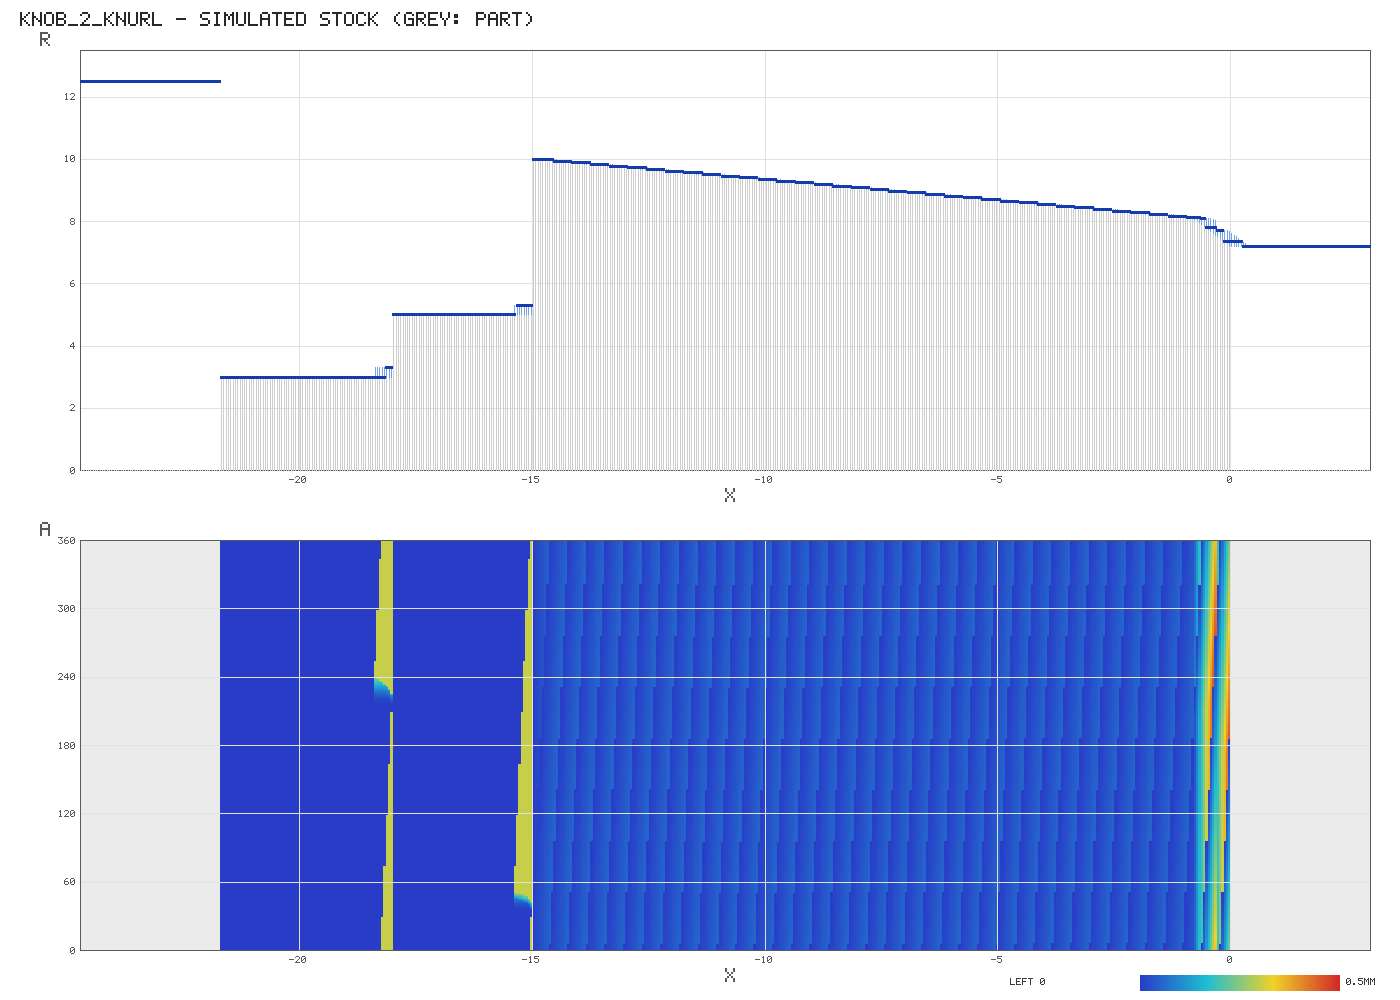
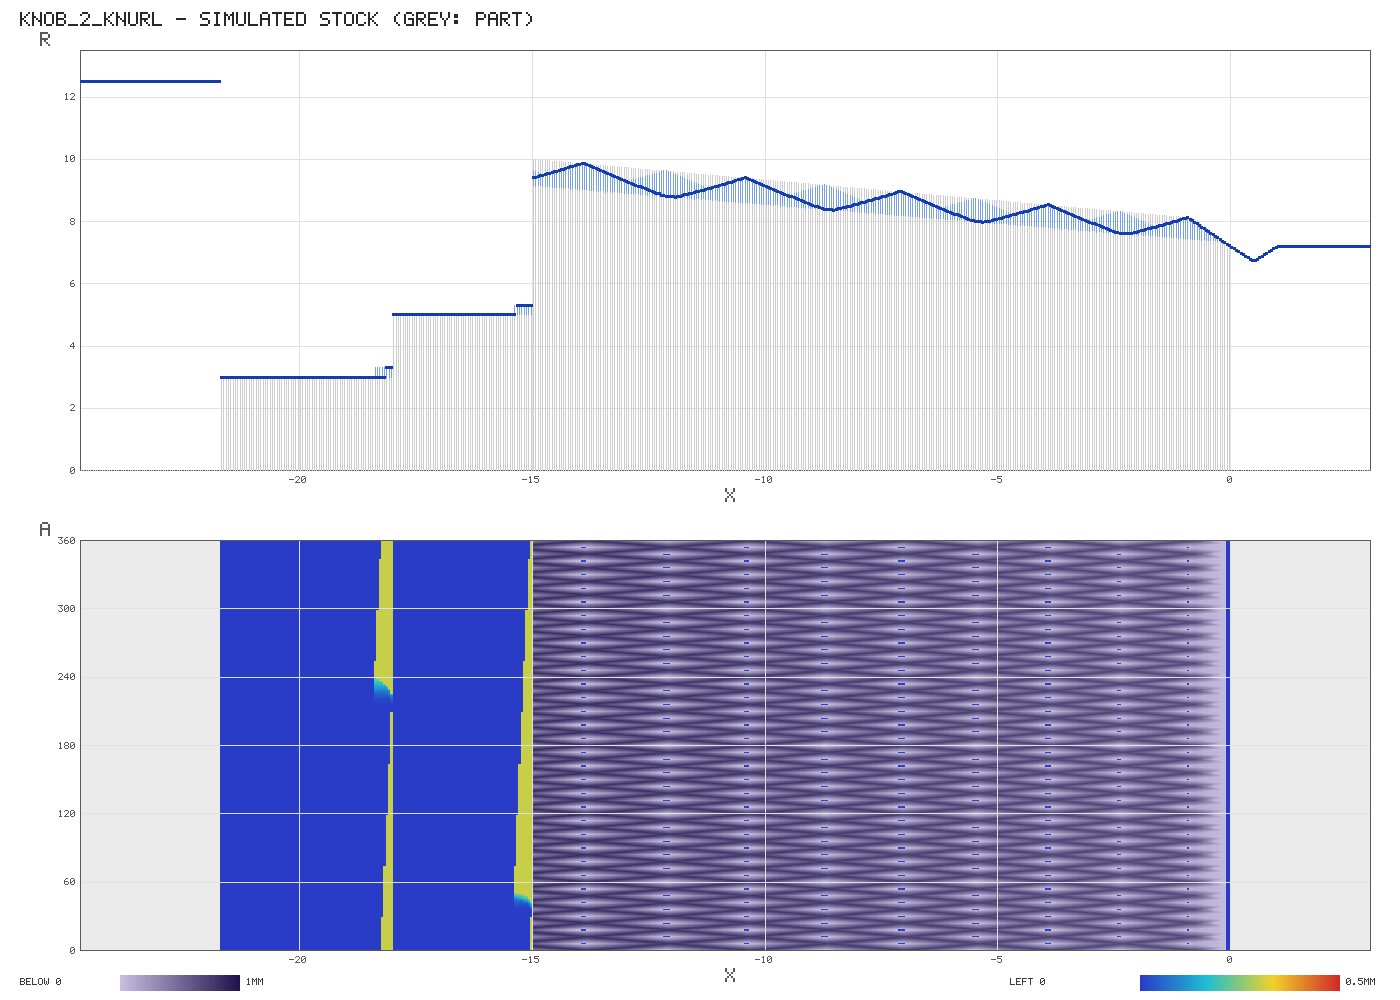
Simulate the knurl program: T2 V-bit diameter 3.175 mm
- examples/knob/knob.job.json: T2 gets its cutting diameter (3.175 mm,
  from Mar); the posted G-code is unchanged (goldens still byte-identical)
- test: profile + knurl/chamfer simulated on one bar: no rapids through
  stock, nothing touched behind the knurl's reach, 2 x 30 grooves where the
  helix puts them at the designed depth (0.85 -> 0.71 mm, worst 0.038 mm
  at 0.5 deg cells), no cut below the groove floor, diamond tops kept, and
  the front chamfer is a true 45 deg through (0, 7.2)
- simulate: knurl/chamfer programs cut below the turned profile on purpose,
  so they are not failed as gouges; stock previews show material below the
  part in grey-violet (deeper = darker) instead of black
- examples/knob/output/sim: stock after the knurl program

Changed region(s): [[0.3686, 0.527, 0.8907, 0.961], [0.3686, 0.155, 0.8907, 0.248], [0.0614, 0.961, 0.1843, 0.992]]

diff --git a/crates/fourcam-core/tests/sim.rs b/crates/fourcam-core/tests/sim.rs
@@ -127,3 +127,156 @@ fn rough_never_cuts_below_allowance_surface() {
         "levels should alternate direction: {dirs:?}"
     );
 }
+
+/// Knob body radius (knob_rotary.py body_R) and the designed knurl depth (knurl_depth).
+fn body_r(x: f64) -> f64 {
+    8.0 + 2.0 * (-x) / 15.0
+}
+
+fn knurl_depth(x: f64) -> f64 {
+    let p_perp = 2.0 * std::f64::consts::PI * body_r(x) / 30.0 * 30f64.to_radians().cos();
+    0.95 * p_perp / (2.0 * 45f64.to_radians().tan())
+}
+
+/// Helix angle swept by a groove from its start at x = -15.6 (degrees), as in the program.
+fn theta_deg(x: f64) -> f64 {
+    let t = 30f64.to_radians().tan() * (0.6 / 10.0 + 7.5 * (10.0 / body_r(x)).ln());
+    t.to_degrees()
+}
+
+#[test]
+fn knurl_program_cuts_the_designed_diamonds() {
+    // the cut G-code: profile, then knurl + V-bit chamfer, on one simulated bar
+    let job = job("knob.job.json");
+    let tps = plan(&job).unwrap();
+    let grid = {
+        let res = simulate_job(&job, &tps[..1], None, 0.05, 720, 0.02).unwrap();
+        res.stock.grid
+    };
+    let cutters = |t: u32| {
+        job.tool(t)
+            .and_then(|d| fourcam::cutter_for(t, d.shape).ok())
+    };
+    let mut stock = sim::RadialMap::filled(grid, job.stock.radius);
+    let st1 = sim::simulate(&mut stock, &tps[0], &cutters, 0.1);
+    let after_profile = stock.clone();
+    let st2 = sim::simulate(&mut stock, &tps[1], &cutters, 0.1);
+    assert!(
+        st1.rapid_hits.is_empty() && st2.rapid_hits.is_empty(),
+        "{st1:?} {st2:?}"
+    );
+    assert!(st2.samples > 10_000, "the knurl program was not simulated");
+    let g = grid;
+    let col =
+        |phi_deg: f64| ((phi_deg.rem_euclid(360.0) / 360.0 * g.na as f64) as usize).min(g.na - 1);
+    let row = |x: f64| (((x - g.x0) / g.dx) as usize).min(g.nx - 1);
+
+    // 1. nothing behind the knurl's reach (tool tip runs out to -15.6, V-bit radius 1.5875)
+    let mut touched_behind = 0;
+    for i in 0..g.nx {
+        if g.x(i) < -15.6 - 1.6 {
+            for j in 0..g.na {
+                if (after_profile.at(i, j) - stock.at(i, j)).abs() > 1e-6 {
+                    touched_behind += 1;
+                }
+            }
+        }
+    }
+    assert_eq!(touched_behind, 0, "the knurl program cut the boss or neck");
+
+    // 2. thirty grooves per family, at the designed depth, where the helix says
+    let mut worst = 0.0f64;
+    let mut checked = 0;
+    let mut x = -14.0;
+    while x <= -1.5 {
+        let i = row(x);
+        let xc = g.x(i);
+        let want = body_r(xc) - knurl_depth(xc);
+        for fam in [1.0, -1.0] {
+            for k in 0..30 {
+                let a = k as f64 * 12.0 + fam * theta_deg(xc);
+                let phi = 90.0 - a; // tool at A sits over part angle 90 - A
+                let j = col(phi) as i64;
+                // groove bottom: lowest cell within +-1 deg of the predicted centre
+                let bottom = (-2..=2)
+                    .map(|d| stock.at(i, (j + d).rem_euclid(g.na as i64) as usize))
+                    .fold(f64::INFINITY, f64::min);
+                worst = worst.max((bottom - want).abs());
+                checked += 1;
+            }
+        }
+        x += 0.5;
+    }
+    eprintln!(
+        "knurl: {checked} groove bottoms checked, worst |bottom - designed| = {worst:.3} mm \
+         (designed depth {:.3} mm at x=-14 .. {:.3} mm at x=-1.5)",
+        knurl_depth(-14.0),
+        knurl_depth(-1.5)
+    );
+    assert!(worst < 0.05, "groove bottoms off by {worst} mm");
+    assert!(knurl_depth(-14.0) < 0.86 && knurl_depth(-1.5) > 0.69);
+
+    // 3. never deeper than the designed groove anywhere on the body (no over-cut), and the
+    //    diamond tops survive: fill 0.95 leaves small flats at the body radius. Tops lie on
+    //    rows about 1.6 mm apart along X, so look for them in 2 mm windows.
+    let mut deepest_excess = 0.0f64;
+    for i in 0..g.nx {
+        let xc = g.x(i);
+        if !(-14.5..=-1.0).contains(&xc) {
+            continue;
+        }
+        let floor = body_r(xc) - knurl_depth(xc);
+        for j in 0..g.na {
+            deepest_excess = deepest_excess.max(floor - stock.at(i, j));
+        }
+    }
+    let mut lowest_top = f64::INFINITY;
+    let mut x0 = -14.5;
+    while x0 + 2.0 <= -1.0 {
+        let top = (row(x0)..row(x0 + 2.0))
+            .map(|i| {
+                (0..g.na)
+                    .map(|j| stock.at(i, j) - body_r(g.x(i)))
+                    .fold(f64::NEG_INFINITY, f64::max)
+            })
+            .fold(f64::NEG_INFINITY, f64::max);
+        lowest_top = lowest_top.min(top);
+        x0 += 1.0;
+    }
+    eprintln!(
+        "knurl: deepest cut below the designed groove floor {deepest_excess:.3} mm;          in every 2 mm of body the highest diamond top is {lowest_top:+.3} mm from the body radius"
+    );
+    assert!(deepest_excess < 0.03, "over-cut {deepest_excess} mm");
+    assert!(
+        lowest_top > -0.1,
+        "diamond tops cut down by {lowest_top} mm"
+    );
+
+    // 4. diamonds: in every 12 degree window around the body there is a top and a bottom
+    let i = row(-7.5);
+    for w in 0..30 {
+        let cells: Vec<f64> = (0..g.na / 30)
+            .map(|d| stock.at(i, w * g.na / 30 + d))
+            .collect();
+        let (lo, hi) = cells
+            .iter()
+            .fold((f64::INFINITY, 0.0f64), |(l, h), &v| (l.min(v), h.max(v)));
+        assert!(
+            hi - lo > 0.5 * knurl_depth(-7.5),
+            "window {w}: relief {} mm",
+            hi - lo
+        );
+    }
+
+    // 5. front chamfer by the V-bit flank: a true 45 deg through (0, 7.2)
+    let mut chamfer_worst = 0.0f64;
+    let mut x = -0.6;
+    while x <= -0.05 {
+        let i = row(x);
+        let top = (0..g.na).map(|j| stock.at(i, j)).fold(0.0, f64::max);
+        chamfer_worst = chamfer_worst.max((top - (7.2 - g.x(i))).abs());
+        x += 0.05;
+    }
+    eprintln!("chamfer: worst |surface - (7.2 - x)| = {chamfer_worst:.3} mm over x = -0.6..0");
+    assert!(chamfer_worst < 0.05, "{chamfer_worst}");
+}

diff --git a/crates/fourcam-core/src/sim.rs b/crates/fourcam-core/src/sim.rs
@@ -487,7 +487,8 @@ pub fn stock_png(title: &str, stock: &RadialMap, part: &RadialMap, stock_r: f64)
         px: [80.0, 540.0, w as f64 - 30.0, 950.0],
         data: [xa, 0.0, xb, 360.0],
     };
-    // material left: 0 (blue) .. 0.5 mm (red); grey where the part is absent; black = gouge
+    // material left: 0 (blue) .. 0.5 mm (red); light grey where the part is absent;
+    // below the part (knurls, chamfers, gouges): grey-violet, darker = deeper (0..1 mm)
     let (l, t, r, b) = (un.px[0], un.px[1], un.px[2], un.px[3]);
     for py in t as i64..=b as i64 {
         for px in l as i64..=r as i64 {
@@ -501,7 +502,7 @@ pub fn stock_png(title: &str, stock: &RadialMap, part: &RadialMap, stock_r: f64)
             } else {
                 let left = stock.at(i, j) - p;
                 if left < -0.01 {
-                    [0, 0, 0]
+                    below((-left).min(1.0))
                 } else {
                     ramp(left / 0.5)
                 }
@@ -514,9 +515,25 @@ pub fn stock_png(title: &str, stock: &RadialMap, part: &RadialMap, stock_r: f64)
         let x = w as f64 - 260.0 + i as f64;
         cv.line(x, 975.0, x, 990.0, ramp(i as f64 / 199.0), 1.0);
     }
+    for i in 0..120 {
+        let x = 120.0 + i as f64;
+        cv.line(x, 975.0, x, 990.0, below(i as f64 / 119.0), 1.0);
+    }
+    cv.text(20, 978, 1, "BELOW 0", [60, 60, 60]);
+    cv.text(246, 978, 1, "1MM", [60, 60, 60]);
     cv.text(w as i64 - 390, 978, 1, "LEFT 0", [60, 60, 60]);
     cv.text(w as i64 - 54, 978, 1, "0.5MM", [60, 60, 60]);
     cv.to_png()
+}
+
+/// Colour for material removed below the part, `t` = depth / 1 mm.
+fn below(t: f64) -> [u8; 3] {
+    let t = t.clamp(0.0, 1.0);
+    [
+        (200.0 - 170.0 * t) as u8,
+        (190.0 - 170.0 * t) as u8,
+        (225.0 - 150.0 * t) as u8,
+    ]
 }
 
 fn nice(span: f64) -> f64 {

diff --git a/crates/fourcam-cli/src/main.rs b/crates/fourcam-cli/src/main.rs
@@ -260,8 +260,15 @@ fn cmd_simulate(o: &Opts) -> Result<ExitCode, String> {
             .and_then(|d| fourcam::cutter_for(t, d.shape).ok())
     };
     let mut bad = false;
-    for (tp, (name, st, dev)) in tps.iter().zip(&res.programs) {
+    for ((tp, prog), (name, st, dev)) in tps.iter().zip(&job.programs).zip(&res.programs) {
         sim::simulate(&mut stock, tp, &cutters, (dx * 2.0).min(0.1));
+        // knurls and chamfers cut below the turned profile by design
+        let shapes_part = prog.operations.iter().any(|o| {
+            matches!(
+                o,
+                fourcam::job::Operation::HelicalKnurl(_) | fourcam::job::Operation::FlankChamfer(_)
+            )
+        });
         let png = out.join(format!("{name}_stock.png"));
         let title = format!("{name} - simulated stock (grey: part)");
         std::fs::write(
@@ -289,8 +296,13 @@ fn cmd_simulate(o: &Opts) -> Result<ExitCode, String> {
                 "  (not simulated: its tools have no full shape, e.g. a V-bit without a diameter)"
             );
         }
+        if shapes_part && dev.gouge_cells > 0 {
+            println!(
+                "  (knurl/chamfer: cuts below the turned profile on purpose, so these are not counted as gouges)"
+            );
+        }
         println!("  preview: {}", png.display());
-        bad |= !st.rapid_hits.is_empty() || dev.gouge_cells > 0;
+        bad |= !st.rapid_hits.is_empty() || (dev.gouge_cells > 0 && !shapes_part);
     }
     Ok(if bad {
         ExitCode::FAILURE
